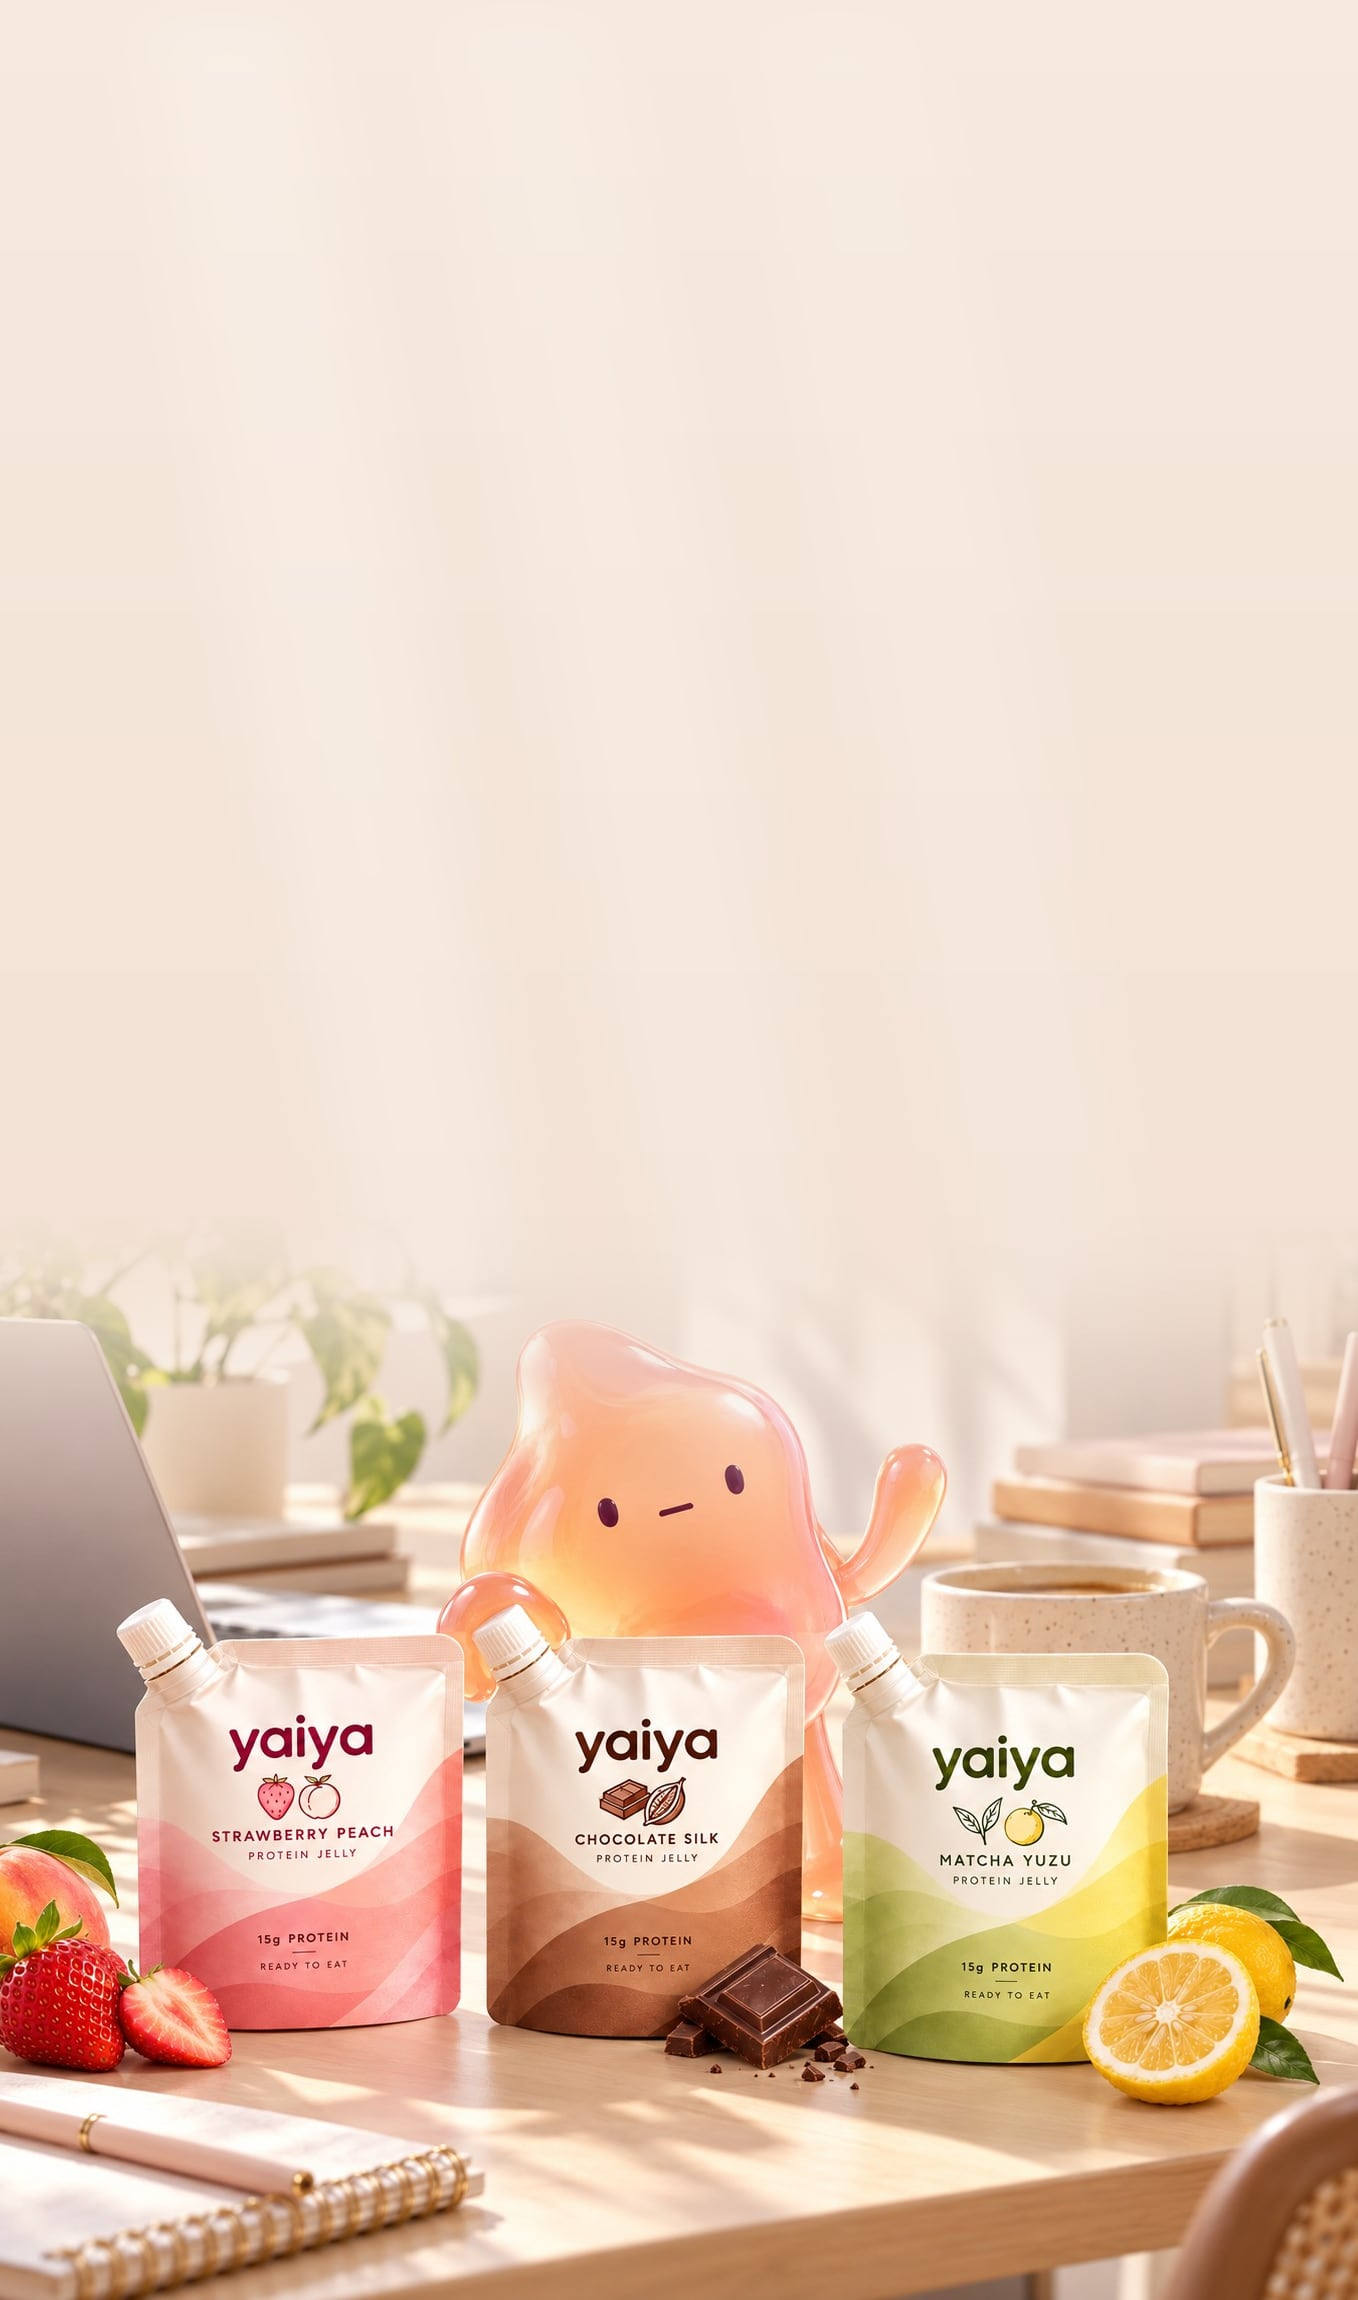
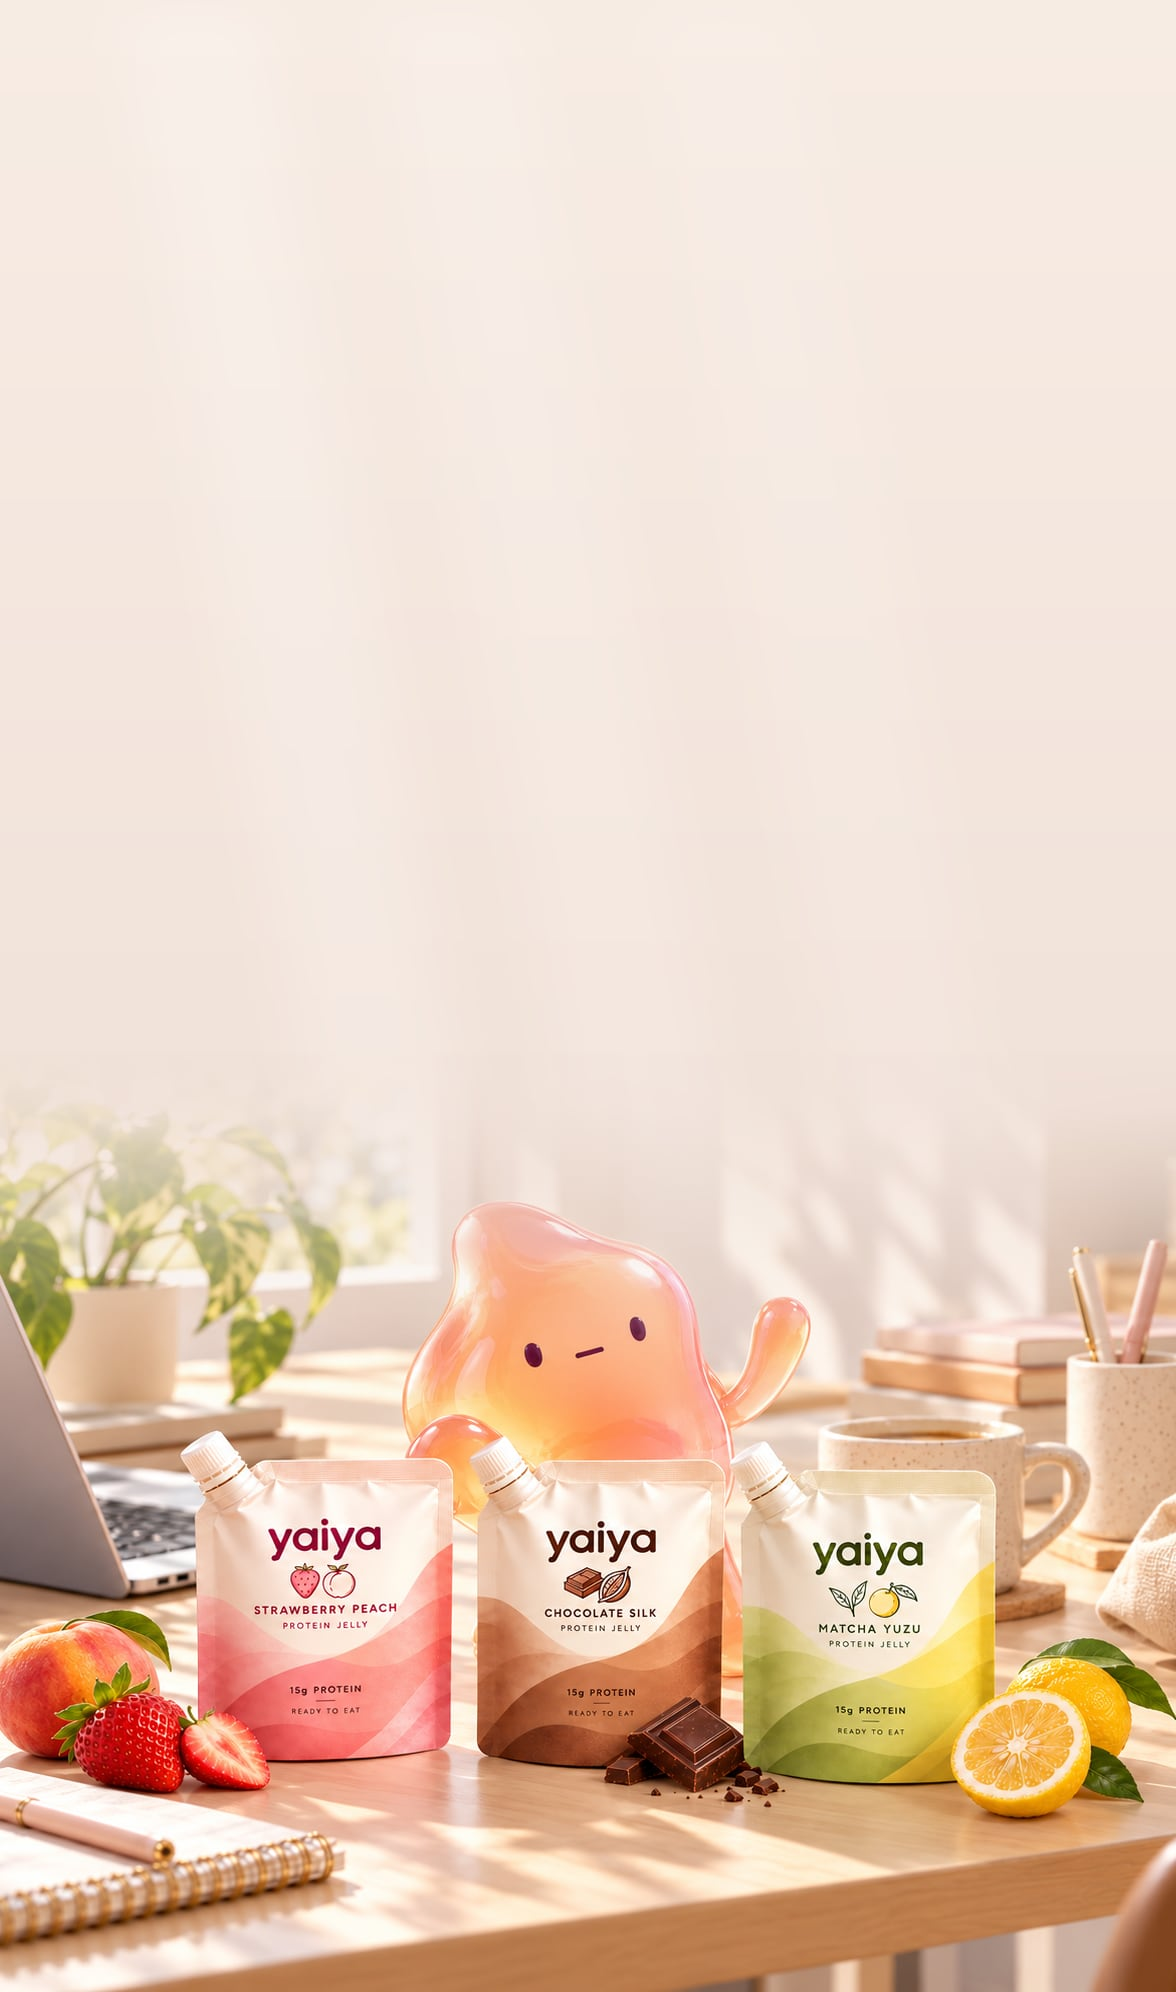
Hero: use the founder's new 16:9 desk scene
extend-hero.mjs now builds hero-wide.jpg and hero-tall.jpg from
assets-src/scene-desk-hero.png. Image position and hero height are tuned
per breakpoint so the copy clears the pouches from 1024px up.

Changed region(s): [[0.0, 0.5602, 1.0, 1.0], [0.7041, 0.5914, 0.7347, 0.6225]]

diff --git a/components/sections/Hero.tsx b/components/sections/Hero.tsx
@@ -17,14 +17,14 @@ function HeroPicture() {
   const common = { alt: hero.image.alt, fetchPriority: "high", loading: "eager" } as const;
   const {
     props: { srcSet: desktopSrcSet },
-  } = getImageProps({ ...common, src: hero.image.desktop, width: 2400, height: 1086, sizes: "100vw" });
-  const { props: mobile } = getImageProps({ ...common, src: hero.image.mobile, width: 1358, height: 2300, sizes: "100vw" });
+  } = getImageProps({ ...common, src: hero.image.desktop, width: 2400, height: 941, sizes: "100vw" });
+  const { props: mobile } = getImageProps({ ...common, src: hero.image.mobile, width: 1176, height: 1992, sizes: "100vw" });
 
   return (
     <picture>
       <source media="(min-width: 1024px)" srcSet={desktopSrcSet} sizes="100vw" />
       {/* eslint-disable-next-line jsx-a11y/alt-text -- alt comes from getImageProps */}
-      <img {...mobile} className="absolute inset-0 size-full object-cover object-bottom lg:object-[60%_50%]" />
+      <img {...mobile} className="absolute inset-0 size-full object-cover object-bottom lg:object-[25%_50%] xl:object-[35%_50%]" />
     </picture>
   );
 }
@@ -46,7 +46,7 @@ export function Hero() {
     <section
       id="top"
       aria-labelledby="hero-heading"
-      className="relative isolate -mt-nav overflow-hidden bg-cream pt-nav lg:-mt-nav-lg lg:flex lg:aspect-[2400/1086] lg:max-h-[820px] lg:min-h-[620px] lg:w-full lg:items-center lg:pt-nav-lg"
+      className="relative isolate -mt-nav overflow-hidden bg-cream pt-nav lg:-mt-nav-lg lg:flex lg:aspect-[2400/941] lg:max-h-[820px] lg:min-h-[560px] xl:min-h-[620px] lg:w-full lg:items-center lg:pt-nav-lg"
     >
       <div className="absolute inset-0 -z-10">
         <HeroPicture />
@@ -56,7 +56,7 @@ export function Hero() {
       </div>
 
       <Container className="relative">
-        <div className="pt-8 lg:max-w-[410px] lg:py-12 xl:max-w-[460px]">
+        <div className="pt-8 lg:max-w-[410px] lg:py-8 xl:max-w-[460px] xl:py-12">
           <Eyebrow>{hero.eyebrow}</Eyebrow>
           <h1 id="hero-heading" className="mt-3 type-h1 text-ink">
             {hero.headline.map((line, i) => (
@@ -83,7 +83,7 @@ export function Hero() {
         </div>
 
         {/* Mobile: room for the pouches at the bottom of the photo. */}
-        <div aria-hidden className="aspect-[1358/1000] lg:hidden" />
+        <div aria-hidden className="aspect-[1176/880] lg:hidden" />
       </Container>
 
       <HandNote rotate={6} mark="heart" className="absolute top-24 right-10 max-w-[160px] text-right">
